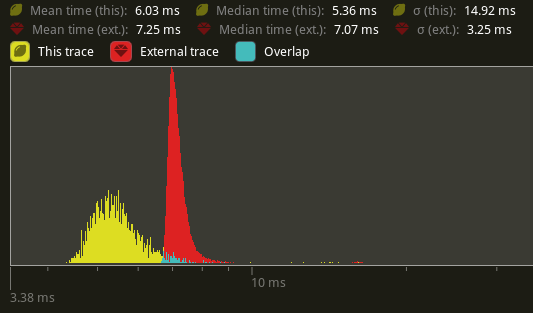
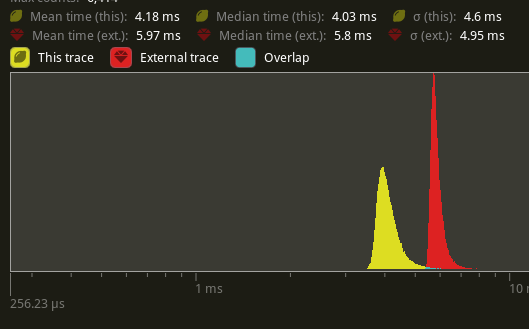
update image

Changed region(s): [[0.0, 0.0, 1.0, 0.8914], [0.0, 0.8914, 0.121, 0.9776], [0.4537, 0.8914, 0.5444, 0.9201]]

diff --git a/content/news/2023-03-04-bevy-0.10/index.md b/content/news/2023-03-04-bevy-0.10/index.md
@@ -28,7 +28,7 @@ On multithreaded platforms bevy will now run significantly faster by running sim
 
 ![Histogram of Many Foxes Frame Time](pipelined-rendering-histogram.png)
 
-In testing different bevy examples, the gains were typically in the 10% to 30% range. As seen in the above histogram the many foxes stress test gains around 1ms. (TODO: I need to redo the histogram with lto on.)
+In testing different bevy examples, the gains were typically in the 10% to 30% range. As seen in the above histogram the many foxes stress test gains 1.8ms.
 
 To use pipelined rendering, you just need to add the `PipelinedRenderingPlugin`. If you're using `DefaultPlugins` then it will automatically be added for you on all platforms except wasm. Bevy does not currently support multithreading on wasm which is needed for this feature to work. If you are not using `DefaultPlugins` you can add the plugin manually.
 
